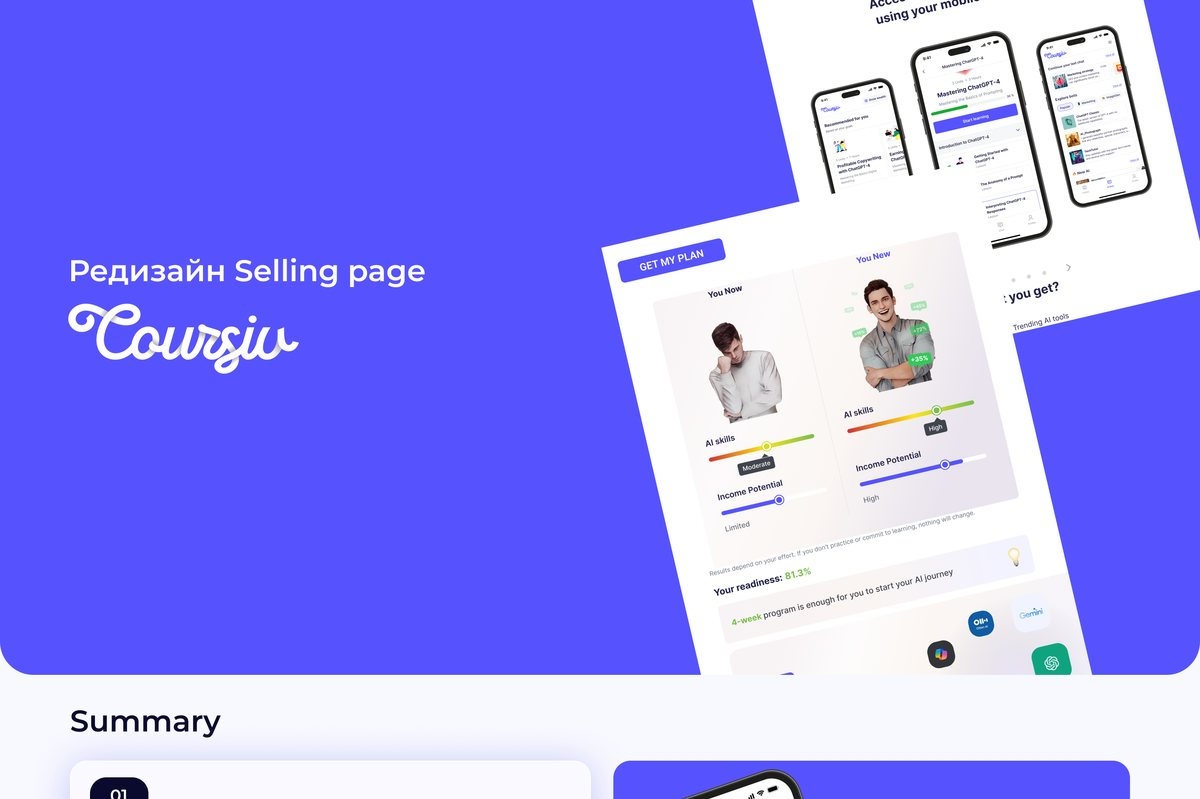
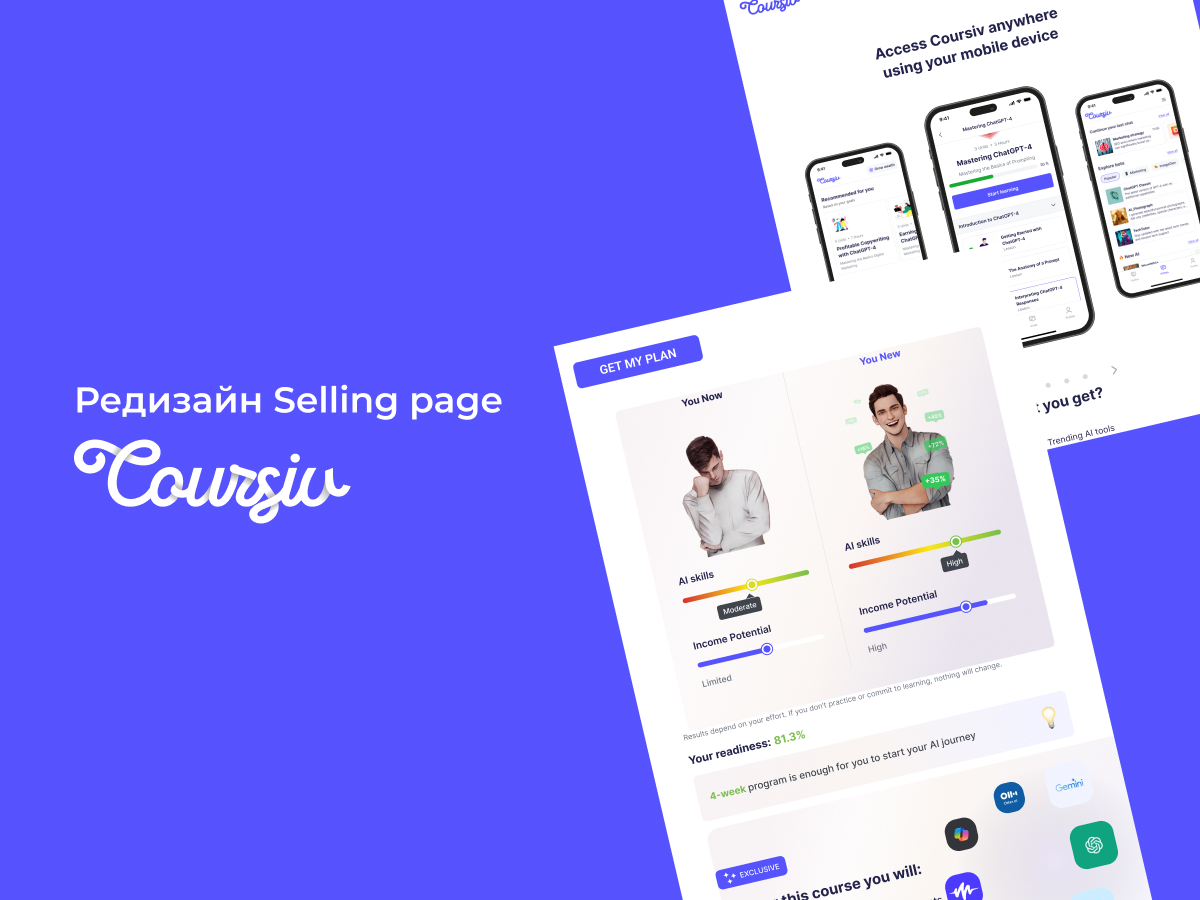
feat: redesign portfolio

Changed region(s): [[0.0, 0.0, 1.0, 1.0], [0.0308, 0.3004, 0.4317, 0.6008], [0.5858, 0.8711, 0.6475, 0.9011]]

diff --git a/src/data/caseStudies.js b/src/data/caseStudies.js
@@ -430,10 +430,12 @@ const caseStudies = [
     tools: 'Figma, Maze',
     tags: ['EdTech', 'Landing', 'Conversion'],
     coverImage: null,
-    images: {
-      cover: [], // TODO: обложка + доп. экран, рекомендуемые размеры см. подписи плейсхолдеров
-      gallery: [], // TODO: мокапы решений и финальный экран, размеры — см. подписи плейсхолдеров
-    },
+    coverImage: '/case-images/coursiv/cover.jpg', // обложка карточки на главной
+
+images: {
+  cover: ['/case-images/coursiv/cover.jpg', '/case-images/coursiv/screens.jpg'],
+  gallery: ['/case-images/coursiv/solution-1.jpg', '/case-images/coursiv/solution-2.jpg', '/case-images/coursiv/final.jpg'],
+},
     summary:
       'Редизайн продающей страницы Coursiv для роста конверсии в покупку — через понятный оффер, доверие и структуру информации.',
     metrics: [

diff --git a/src/styles/global.css b/src/styles/global.css
@@ -8,7 +8,7 @@
   --lime-dark: #A9D42B;
   --dark: #14132B;
   --badge-red: #FF4B4B;
-  --badge-purple: #6B4EFF;
+  --badge-purple: #5653FE;
   --badge-blue: #2F6BFF;
   --badge-green: #2FAE5C;
 

diff --git a/src/pages/caseStudy.css b/src/pages/caseStudy.css
@@ -1,6 +1,6 @@
 .case {
   --rv-bg: #F4F2FC;
-  --rv-violet: #5B4FE8;
+  --rv-violet: #5653FE;
   --rv-violet-dark: #14132B;
   --rv-cyan: #3DE0F0;
   --rv-lav-light: #EDEBFB;
